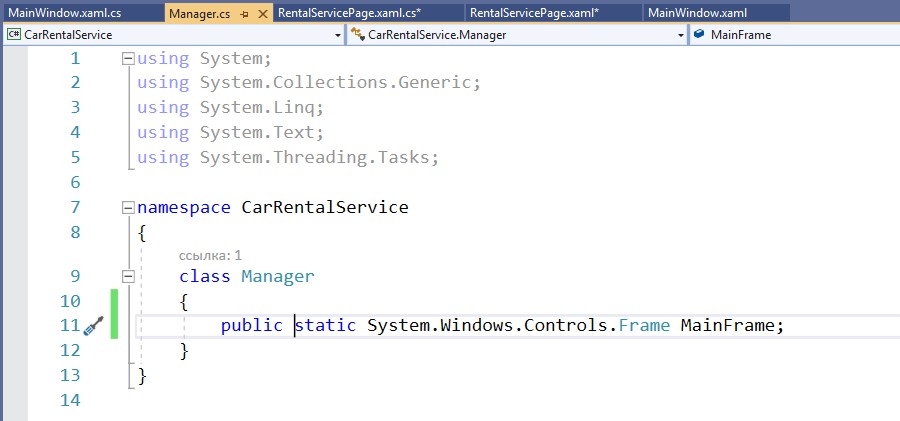
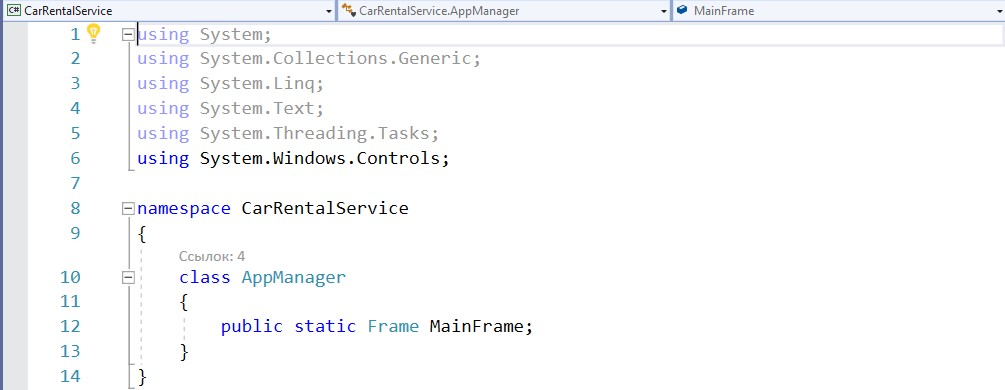
lesson #5 + lesson #4 fix + glossary fix
Glossary 'definition' type changed from string to text for storing long definitions

Changed region(s): [[0.0, 0.0, 1.0, 0.6154], [0.0622, 0.4615, 0.8711, 1.0], [0.1867, 0.5846, 0.28, 0.6154]]

diff --git a/storage/app/public/lessons/5/index.html b/storage/app/public/lessons/5/index.html
@@ -1,0 +1,139 @@
+<!DOCTYPE html>
+<html lang="en">
+<head>
+    <meta charset="UTF-8">
+    <meta http-equiv="X-UA-Compatible" content="IE=edge">
+    <meta name="viewport" content="width=device-width, initial-scale=1.0">
+    <title>Тема 5</title>
+    <link rel="stylesheet" href="css/main.css">
+</head>
+<body>
+    <div class="text">
+        <p>Тему работы с&nbsp;базой данных в&nbsp;приложении будем рассматривать на&nbsp;примере отображения, добавления, редактирования и&nbsp;удаления данных. Для отображения определенных данных система обращается к&nbsp;базе данных, получает ответ, а&nbsp;затем преобразует его в&nbsp;удобный для пользователя вид, который настраивает разработчик. Для работы с&nbsp;базой данных в&nbsp;приложении мы&nbsp;будем использовать Entity Framework, который позволяет работать с&nbsp;базой данных через объектно-ориентированный подход. Он&nbsp;предоставляет ряд существенных преимуществ: вам не&nbsp;нужно беспокоиться о&nbsp;коде доступа к&nbsp;данным, а&nbsp;также знать детали работы СУБД SQL Server и&nbsp;синтаксиса языка структурированных запросов SQL. Вместо этого вы&nbsp;работает с&nbsp;таблицами базы данных как с&nbsp;классами С#, а&nbsp;с&nbsp;полями этих таблиц, как со&nbsp;свойствами классов, используя вместо SQL запросов более удобный подход&nbsp;&mdash; LINQ. Entity Framework берет на&nbsp;себя обязанности по&nbsp;преобразованию кода C# в&nbsp;SQL инструкции.</p>
+
+		<h1><strong>Использование Windows Presentation Foundation (WPF) для создания интерактивных настольных приложений</strong></h1>
+
+		<p><strong>1.</strong>&nbsp;Создадим новый элемент</p>
+
+		<p><img alt="" src="img/1.jpg" /></p>
+
+		<p><strong>2.</strong>&nbsp;Выбираем ADO.NET Entity Data Model и даем ей название BaseModel</p>
+
+		<p><img alt="" src="img/2.jpg" /></p>
+
+		<p><strong>3.</strong>&nbsp;Выбираем &quot;Конструктор EF из базы данных&quot;</p>
+
+		<p><img alt="" src="img/3.jpg" /></p>
+
+		<p><strong>4.</strong>&nbsp;Создаем новое подключение и&nbsp;выбираем базу данных</p>
+
+		<p><img alt="" src="img/4.jpg" /></p>
+
+		<p><strong>5.</strong>&nbsp;Нажимаем Далее</p>
+
+		<p><img alt="" src="img/5.jpg" /></p>
+
+		<p><strong>6.</strong>&nbsp;Нажимаем Далее</p>
+
+		<p><img alt="" src="img/6.jpg" /></p>
+
+		<p><strong>7.</strong>&nbsp;Выбираем все таблицы из&nbsp;списка</p>
+
+		<p><img alt="" src="img/7.jpg" /></p>
+
+		<p><strong>8.</strong>&nbsp;Модель готова</p>
+
+		<p><img alt="" src="img/8.jpg" /></p>  
+
+		<h1><strong>Обращение к модели данных. Паттерн SingleTone. Чтение, добавление, редактирование, удаление данных</strong></h1>
+
+		<p><strong>1.</strong>&nbsp;Открываем файл BaseModel.Context.cs</p>
+
+		<p><img alt="" src="img/9.jpg" /></p>
+
+		<p><strong>2.</strong>&nbsp;Добавляем приватное статичное поле, которое будет контекстом</p>
+
+		<p><img alt="" src="img/10.jpg" /></p>
+
+		<p><strong>3.</strong>&nbsp;Добавляем метод получения экземпляра этого контекста</p>
+
+		<p><img alt="" src="img/11.jpg" /></p>
+
+		<p><strong>4.</strong>&nbsp;Для отображения данных открываем страницу RentalServicePage.xaml</p>
+
+		<p><img alt="" src="img/12.jpg" /></p>
+
+		<p><strong>5.</strong>&nbsp;Размечаем Grid на две части</p>
+
+		<p><img alt="" src="img/13.jpg" /></p>
+
+		<p><strong>6.</strong>&nbsp;Cписок данных выводится по&nbsp;столбцам, которые прописывает разработчик. Устанавливаем их&nbsp;с&nbsp;помощью свойства DataGrid.Columns, которое и&nbsp;описывает набор столбцов.</p>
+
+		<ul>
+			<li>DataGridTextColumn для текстовых столбцов</li>
+			<li>DataGridTemplateColumn для более сложного представления данных, например, кнопки</li>
+		</ul>
+
+		<p><img alt="" src="img/14.jpg" /></p>
+
+		<p><strong>7.</strong>&nbsp;Далее загрузим список автомобилей&nbsp;в коде в таблицу:<br />
+		a) Нажимаем F7<br />
+		b) Обращаемся к контексту модели</p>
+
+		<p><img alt="" src="img/15.jpg" /></p>
+
+		<p><strong>8.</strong>&nbsp;Пробуем запустить программу и видим набор данных уже в приложении</p>
+
+		<p><img alt="" src="img/16.jpg" /></p>
+
+		<p><strong>9.</strong>&nbsp;Для отключения загрузки всех свойств объектов, необходимо прописать AuroGenerateColumns=&quot;False&quot; и&nbsp;IsReadOnly=&quot;True&quot;</p>
+
+		<p><img alt="" src="img/17.jpg" /></p>
+		
+		<p><strong>10.</strong>&nbsp;Также добавим кнопки для добавления и&nbsp;удаления во&nbsp;второй строке сетки. Дадим им&nbsp;имена и&nbsp;обработаем нажатия</p>
+
+		<p><img alt="" src="img/18.jpg" /></p>
+
+		<p><strong>11.</strong>&nbsp;Информация об&nbsp;автомобилях может меняться, поэтому важно реализовать функции добавления, редактирования и&nbsp;удаления. Для этого используем уже созданную нами вторую страницу, добавив необходимые элементы управления</p>
+
+		<p><br />
+		a) Сверстаем сетку, состоящую из трех строк и двух столбцов<br />
+		b) Разместим элементы для ввода данных:</p>
+
+		<ul>
+			<li>Текстовые блоки для отображения подсказок, что именно вводить</li>
+		</ul>
+
+		<p><img alt="" src="img/19.jpg" /></p>
+
+		<ul>
+			<li>TextBox для ввода</li>
+		</ul>
+
+		<p><img alt="" src="img/20.jpg" /></p>
+
+		<p>c) Устанавливаем максимальное число символов для текст-боксов равных максимальному числу символов в&nbsp;базе данных</p>
+
+		<p><img alt="" src="img/21.jpg" /></p>
+
+		<p>d) Добавим кнопку для сохранения изменений, дадим ей&nbsp;имя и&nbsp;обработаем нажатие</p>
+
+		<p><img alt="" src="img/22.jpg" /></p>
+		
+		<p><strong>12.&nbsp;<strong>И, наконец, сделаем переход на&nbsp;страницу добавления со&nbsp;страницы списка автомобилей</strong></strong></p>
+
+		<p><img alt="" src="img/23.jpg" /></p>
+
+		<p><strong>13.</strong>&nbsp;Проверяем работоспособность</p>
+
+		<p><img alt="" src="img/24.jpg" /></p>
+
+		<p><img alt="" src="img/25.jpg" /></p>
+
+		<h1>Итоги</h1>
+
+		<p>Мы&nbsp;познакомились с&nbsp;механизмом работы Entity Framework и&nbsp;отобразили данные в&nbsp;DataGrid. В&nbsp;следующей части мы&nbsp;поработаем над функциями добавления и&nbsp;редактирования.</p>
+
+    </div>
+</body>
+</html>

diff --git a/storage/app/public/lessons/4/index.html b/storage/app/public/lessons/4/index.html
@@ -166,7 +166,7 @@
 		<br />
 		<strong>1.</strong>&nbsp;Правой кнопкой на&nbsp;название проекта&nbsp;&mdash; Добавить&nbsp;&mdash; Класс</p>
 
-		<p><strong>2.&nbsp;</strong>Вводим название класса Manager</p>
+		<p><strong>2.&nbsp;</strong>Вводим название класса AppManager</p>
 
 		<p><strong>3.&nbsp;</strong>Создаем статичное свойство MainFrame</p>
 		
@@ -190,7 +190,7 @@
 
 		<p><img alt="" src="img/25.jpg" style="zoom: 65%"/></p>
 
-		<p>Далее вновь создаем обработчик события нажатия на кнопку. Используем следующую логику: обращаемся к&nbsp;менеджеру (Manager), к&nbsp;фрейму (MainFrame) и&nbsp;вызываем метод GoBack</p>
+		<p>Далее вновь создаем обработчик события нажатия на кнопку. Используем следующую логику: обращаемся к&nbsp;менеджеру (AppManager), к&nbsp;фрейму (MainFrame) и&nbsp;вызываем метод GoBack</p>
 
 		<p><img alt="" src="img/26.jpg" style="zoom: 75%"/></p>
 

diff --git a/storage/app/public/lessons/5/css/main.css b/storage/app/public/lessons/5/css/main.css
@@ -1,0 +1,14 @@
+h1{
+    font-family: Arial, Helvetica, sans-serif;
+    color: #0000a0;
+}
+
+.text {
+    font-family: 'Times New Roman', Times, serif;
+    font-size: 1.05rem;
+    /* border-bottom: 2px solid blue; */
+}
+
+img {
+	zoom: 60%;
+}

diff --git a/database/seeders/GlossarySeeder.php b/database/seeders/GlossarySeeder.php
@@ -90,6 +90,30 @@ class GlossarySeeder extends Seeder
             [
                 'term' => 'Настольное приложение',
                 'definition' => 'Desktop application. Программное обеспечение, предназначенное для работы на персональных компьютерах',
+            ],
+            [
+                'term' => 'Метод',
+                'definition' => 'Method. Функция или процедура, принадлежащая какому-то классу или объекту, состоящая из некоторого количества операторов для выполнения какого-то действия и имеющая набор входных аргументов',
+            ],
+            [
+                'term' => 'Привязка данных',
+                'definition' => 'Binding. Процесс, который устанавливает соединение между UI (пользовательским интерфейсом) приложения и бизнес-логикой',
+            ],
+            [
+                'term' => 'OOP',
+                'definition' => 'Object-oriented programming (объектно-ориентированное программирование). Методология программирования, основанная на представлении программы в виде совокупности объектов, каждый из которых является экземпляром определенного класса, а классы образуют иерархию наследования',
+            ],
+            [
+                'term' => 'SQL',
+                'definition' => 'Structured Query Language (язык структурированных запросов). Декларативный язык программирования, применяемый для создания, модификации и управления данными в реляционной базе данных, управляемой соответствующей системой управления базами данных',
+            ],
+            [
+                'term' => 'EF',
+                'definition' => 'Entity Framework. Объектно-ориентированная технология доступа к данным',
+            ],
+            [
+                'term' => 'Паттерн',
+                'definition' => 'Pattern. Повторяемая архитектурная конструкция, представляющая собой решение проблемы проектирования в рамках некоторого часто возникающего контекста',
             ]
         ]);
     }

diff --git a/database/seeders/LessonSeeder.php b/database/seeders/LessonSeeder.php
@@ -30,6 +30,10 @@ class LessonSeeder extends Seeder
         [
             'name' => 'Создание каркаса приложения. Создание и использование стилей',
             'description' => 'В этой теме вы узнаете, как создать каркас приложения с помощью технологии WPF, а также познакомитесь с ее основными механизмами'
+        ],
+        [
+            'name' => 'Работа с базой данных в приложении: чтение, добавление, редактирование, удаление данных (часть 1)',
+            'description' => 'В этой теме вы познакомитесь с механизмом работы Entity Framework'
         ]
         ]);
     }

diff --git a/database/migrations/2021_04_13_032947_create_glossary_table.php b/database/migrations/2021_04_13_032947_create_glossary_table.php
@@ -16,7 +16,7 @@ class CreateGlossaryTable extends Migration
         Schema::create('glossary', function (Blueprint $table) {
             $table->id();
             $table->string('term');
-            $table->string('definition');
+            $table->text('definition');
             $table->timestamps();
         });
     }
